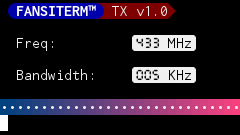
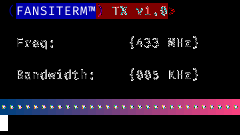
add more transforms; add DrawTile method

diff --git a/transformations.go b/transformations.go
@@ -5,6 +5,8 @@ import (
 	"image/color"
 	"image/draw"
 	"math"
+
+	"golang.org/x/exp/constraints"
 )
 
 // invertColors composites an image.Image, overriding the At() method
@@ -69,14 +71,14 @@ func (it imageTransform) At(x, y int) color.Color {
 func horizontalMirror(img image.Image) imageTransform {
 	return imageTransform{
 		Image: img,
-		tx:    func(x, y int) (int, int) { return img.Bounds().Dx() - x, y },
+		tx:    func(x, y int) (int, int) { return img.Bounds().Max.X - x, y },
 	}
 }
 
 func verticalMirror(img image.Image) imageTransform {
 	return imageTransform{
 		Image: img,
-		tx:    func(x, y int) (int, int) { return x, img.Bounds().Dy() - y },
+		tx:    func(x, y int) (int, int) { return x, img.Bounds().Max.Y - y },
 	}
 }
 
@@ -90,6 +92,118 @@ func rotateImage(img image.Image, degrees int) imageTransform {
 		tx: func(x, y int) (int, int) {
 			newTheta := math.Atan2(float64(y-midY), float64(x-midX)) + rotInRadians
 			r := math.Sqrt(math.Pow(float64(y-midY), 2) + math.Pow(float64(x-midX), 2))
+
+			return int(math.Round(r*math.Cos(newTheta))) + midX, int(math.Round(r*math.Sin(newTheta))) + midY
+		},
+	}
+}
+
+/*
+func avgColor(a, b color.Color) color.RGBA {
+	r1, g1, b1, a1 := a.RGBA()
+	r2, g2, b2, a2 := b.RGBA()
+	return color.RGBA{(r1 + r2) / 2, (g1 + g2) / 2, (b1 + b2) / 2, (a1 + a2) / 2}
+}
+*/
+
+func weightedAvgColor(a, b color.Color, aWeight float64) color.RGBA {
+	r1, g1, b1, a1 := a.RGBA()
+	r2, g2, b2, a2 := b.RGBA()
+
+	return color.RGBA{
+		uint8(math.Round(float64(r1)*aWeight + float64(r2)*(1-aWeight))),
+		uint8(math.Round(float64(g1)*aWeight + float64(g2)*(1-aWeight))),
+		uint8(math.Round(float64(b1)*aWeight + float64(b2)*(1-aWeight))),
+		uint8(math.Round(float64(a1)*aWeight + float64(a2)*(1-aWeight))),
+	}
+}
+
+/*
+
+	| 1+AB A+ABC+C |          | x |
+	|  B     1+BC  |   times  | y |
+*/
+
+func rotateImageBySkew(img image.Image, degrees float64) imageTransform {
+	midX := img.Bounds().Dx()/2 + img.Bounds().Min.X
+	midY := img.Bounds().Dy()/2 + img.Bounds().Min.Y
+
+	theta := degrees / 180 * math.Pi
+
+	horizontalSkew := -math.Atan(theta / 2)
+	verticalSkew := math.Sin(theta)
+
+	return imageTransform{
+		Image: img,
+		tx: func(x, y int) (int, int) {
+			x = x - midX
+			y = y - midY
+			return int(math.Round((1+horizontalSkew*verticalSkew)*float64(x)+(2*horizontalSkew+horizontalSkew*horizontalSkew*verticalSkew)*float64(y))) + midX,
+				int(math.Round(verticalSkew*float64(x)+(1+horizontalSkew*verticalSkew)*float64(y))) + midY
+
+		},
+	}
+}
+
+type Number interface {
+	constraints.Integer | constraints.Float
+}
+
+func abs[N Number](n N) N {
+	if n < 0 {
+		return -n
+	}
+	return n
+}
+
+// SubImage tries to use the SubImage method of img, if it has one
+// otherwise, return same image wrapped so that r becomes
+// the new bounds.
+func SubImage(img image.Image, r image.Rectangle) image.Image {
+	sb, ok := img.(interface {
+		SubImage(image.Rectangle) image.Image
+	})
+	if ok {
+		return sb.SubImage(r)
+	}
+
+	return subimage{
+		Image:  img,
+		bounds: r,
+	}
+}
+
+type subimage struct {
+	image.Image
+	bounds image.Rectangle
+}
+
+func (si subimage) Bounds() image.Rectangle {
+	return si.bounds
+}
+
+// drawTransform transforms *draw
+type drawTransform struct {
+	draw.Image
+	tx func(x, y int) (int, int)
+}
+
+func (it drawTransform) Set(x, y int, c color.Color) {
+	x, y = it.tx(x, y)
+	it.Image.Set(x, y, c)
+}
+
+func rotateDraw(img draw.Image, degrees int) drawTransform {
+	midX := img.Bounds().Dx()/2 + img.Bounds().Min.X
+	midY := img.Bounds().Dy()/2 + img.Bounds().Min.Y
+	rotInRadians := float64(degrees) / 180 * math.Pi
+
+	return drawTransform{
+		Image: img,
+		tx: func(x, y int) (int, int) {
+			newTheta := math.Atan2(float64(y-midY), float64(x-midX)) - rotInRadians
+			r := math.Sqrt(math.Pow(float64(y-midY), 2) + math.Pow(float64(x-midX), 2))
+
 			return int(math.Round(r*math.Cos(newTheta))) + midX, int(math.Round(r*math.Sin(newTheta))) + midY
 		},
 	}

diff --git a/tiles.go b/tiles.go
@@ -2,6 +2,8 @@ package fansiterm
 
 import (
 	"image"
+	"image/color"
+	"image/draw"
 	_ "image/png"
 	"io"
 	"os"
@@ -40,6 +42,59 @@ func (ts TileSet) LoadTileFromReader(r rune, rd io.Reader) {
 	ts[r], _, err = image.Decode(rd)
 	if err != nil {
 		panic(err)
+	}
+}
+
+func rectangleAt(rect image.Rectangle, pt image.Point) image.Rectangle {
+	return image.Rect(pt.X, pt.Y, pt.X+rect.Dx(), pt.Y+rect.Dy())
+}
+
+/*
+func (ts TileSet) DrawTile(r rune, dst draw.Image, src image.Image, pt image.Point) {
+	// DrawMask: destination image, destination rectangle, src image, src point, mask image, mask point, op
+	draw.DrawMask(
+		dst, rectangleAt(ts[r].Bounds(), pt),
+		src, image.Point{},
+		ts[r], ts[r].Bounds().Min,
+		draw.Src)
+}
+*/
+
+// m is the maximum value for an unsigned 16bit integer
+const m = 1<<16 - 1
+
+// alphaBlend blends together two values. Fully opaque (alpha == m) means
+// all fg is shown, fully transparent (alpha == 0) means only bg is shown.
+// Otherwise blend the two together based on the ratio of alpha between 0 and m.
+// The arguments are uint32, the values of the arguments are in the 16bit range
+// and we need to return a uint8. Confused? I sure am.
+func alphaBlend(bg, fg, alpha uint32) uint8 {
+	return uint8(((bg*(m-alpha) + fg*alpha) / m) >> 8)
+}
+
+func (ts TileSet) DrawTile(r rune, dst draw.Image, pt image.Point, fg color.Color, bg color.Color) {
+	for x := 0; x < ts[r].Bounds().Dx(); x++ {
+		for y := 0; y < ts[r].Bounds().Dy(); y++ {
+			// only use the alpha channel from ts[r]?
+			// could have non-white or non-black pixels values override the foreground color.
+			_, _, _, alpha := ts[r].At(x+ts[r].Bounds().Min.X, y+ts[r].Bounds().Min.Y).RGBA()
+			switch alpha {
+			case 0x00:
+				dst.Set(pt.X+x, pt.Y+y, bg)
+			case m:
+				dst.Set(pt.X+x, pt.Y+y, fg)
+			default:
+				bgr, bgg, bgb, _ := bg.RGBA()
+				fgr, fgg, fgb, _ := fg.RGBA()
+
+				dst.Set(pt.X+x, pt.Y+y,
+					color.RGBA{
+						alphaBlend(bgr, fgr, alpha),
+						alphaBlend(bgg, fgg, alpha),
+						alphaBlend(bgb, fgb, alpha),
+						255})
+			}
+		}
 	}
 }
 

diff --git a/render.go b/render.go
@@ -5,6 +5,7 @@ import (
 	"image/draw"
 	_ "image/png"
 
+	"github.com/sparques/fansiterm/tiles"
 	"golang.org/x/image/font/inconsolata"
 	"golang.org/x/image/math/fixed"
 )
@@ -50,7 +51,8 @@ func (d *Device) RenderRunes(sym []rune) {
 	case d.attr.Bold:
 		d.Render.fontDraw.Face = inconsolata.Bold8x16
 	default:
-		d.Render.fontDraw.Face = inconsolata.Regular8x16
+		//d.Render.fontDraw.Face = inconsolata.Regular8x16
+		d.Render.fontDraw.Face = TileSet(tiles.FiraNerd)
 	}
 
 	// draw background
@@ -59,6 +61,9 @@ func (d *Device) RenderRunes(sym []rune) {
 	// draw character
 	d.Render.fontDraw.Dot = d.cursorFixedPt()
 	d.Render.fontDraw.DrawString(string(sym))
+	// for i, glyph := range sym {
+	// 	TileSet(tiles.FiraNerd).DrawTile(glyph, d.Render.Image, d.cursorPt().Add(image.Pt(i*d.Render.cell.Dx(), 0)), d.attr.Fg, d.attr.Bg)
+	// }
 
 	// TODO: clean this mess up up; really could use better drawing routines
 	// Need to do a performance comparison; would it be better to have "glyphs" that are lines and render those overtop
@@ -76,7 +81,7 @@ func (d *Device) RenderRunes(sym []rune) {
 			draw.Src)
 	}
 
-	if d.attr.Underline || d.attr.DoubleUnderline {
+	if d.attr.Underline {
 		// draw a single pixel high line through the the whole cell, 3px above the bottom of the cell
 		draw.Draw(d.Render,
 			image.Rect(

diff --git a/ansi.go b/ansi.go
@@ -196,6 +196,7 @@ func (d *Device) HandleCSISequence(seq []rune) {
 			case 4:
 				d.attr.Underline = true
 			case 21:
+				d.attr.Underline = true
 				d.attr.DoubleUnderline = true
 			case 24:
 				d.attr.Underline = false
